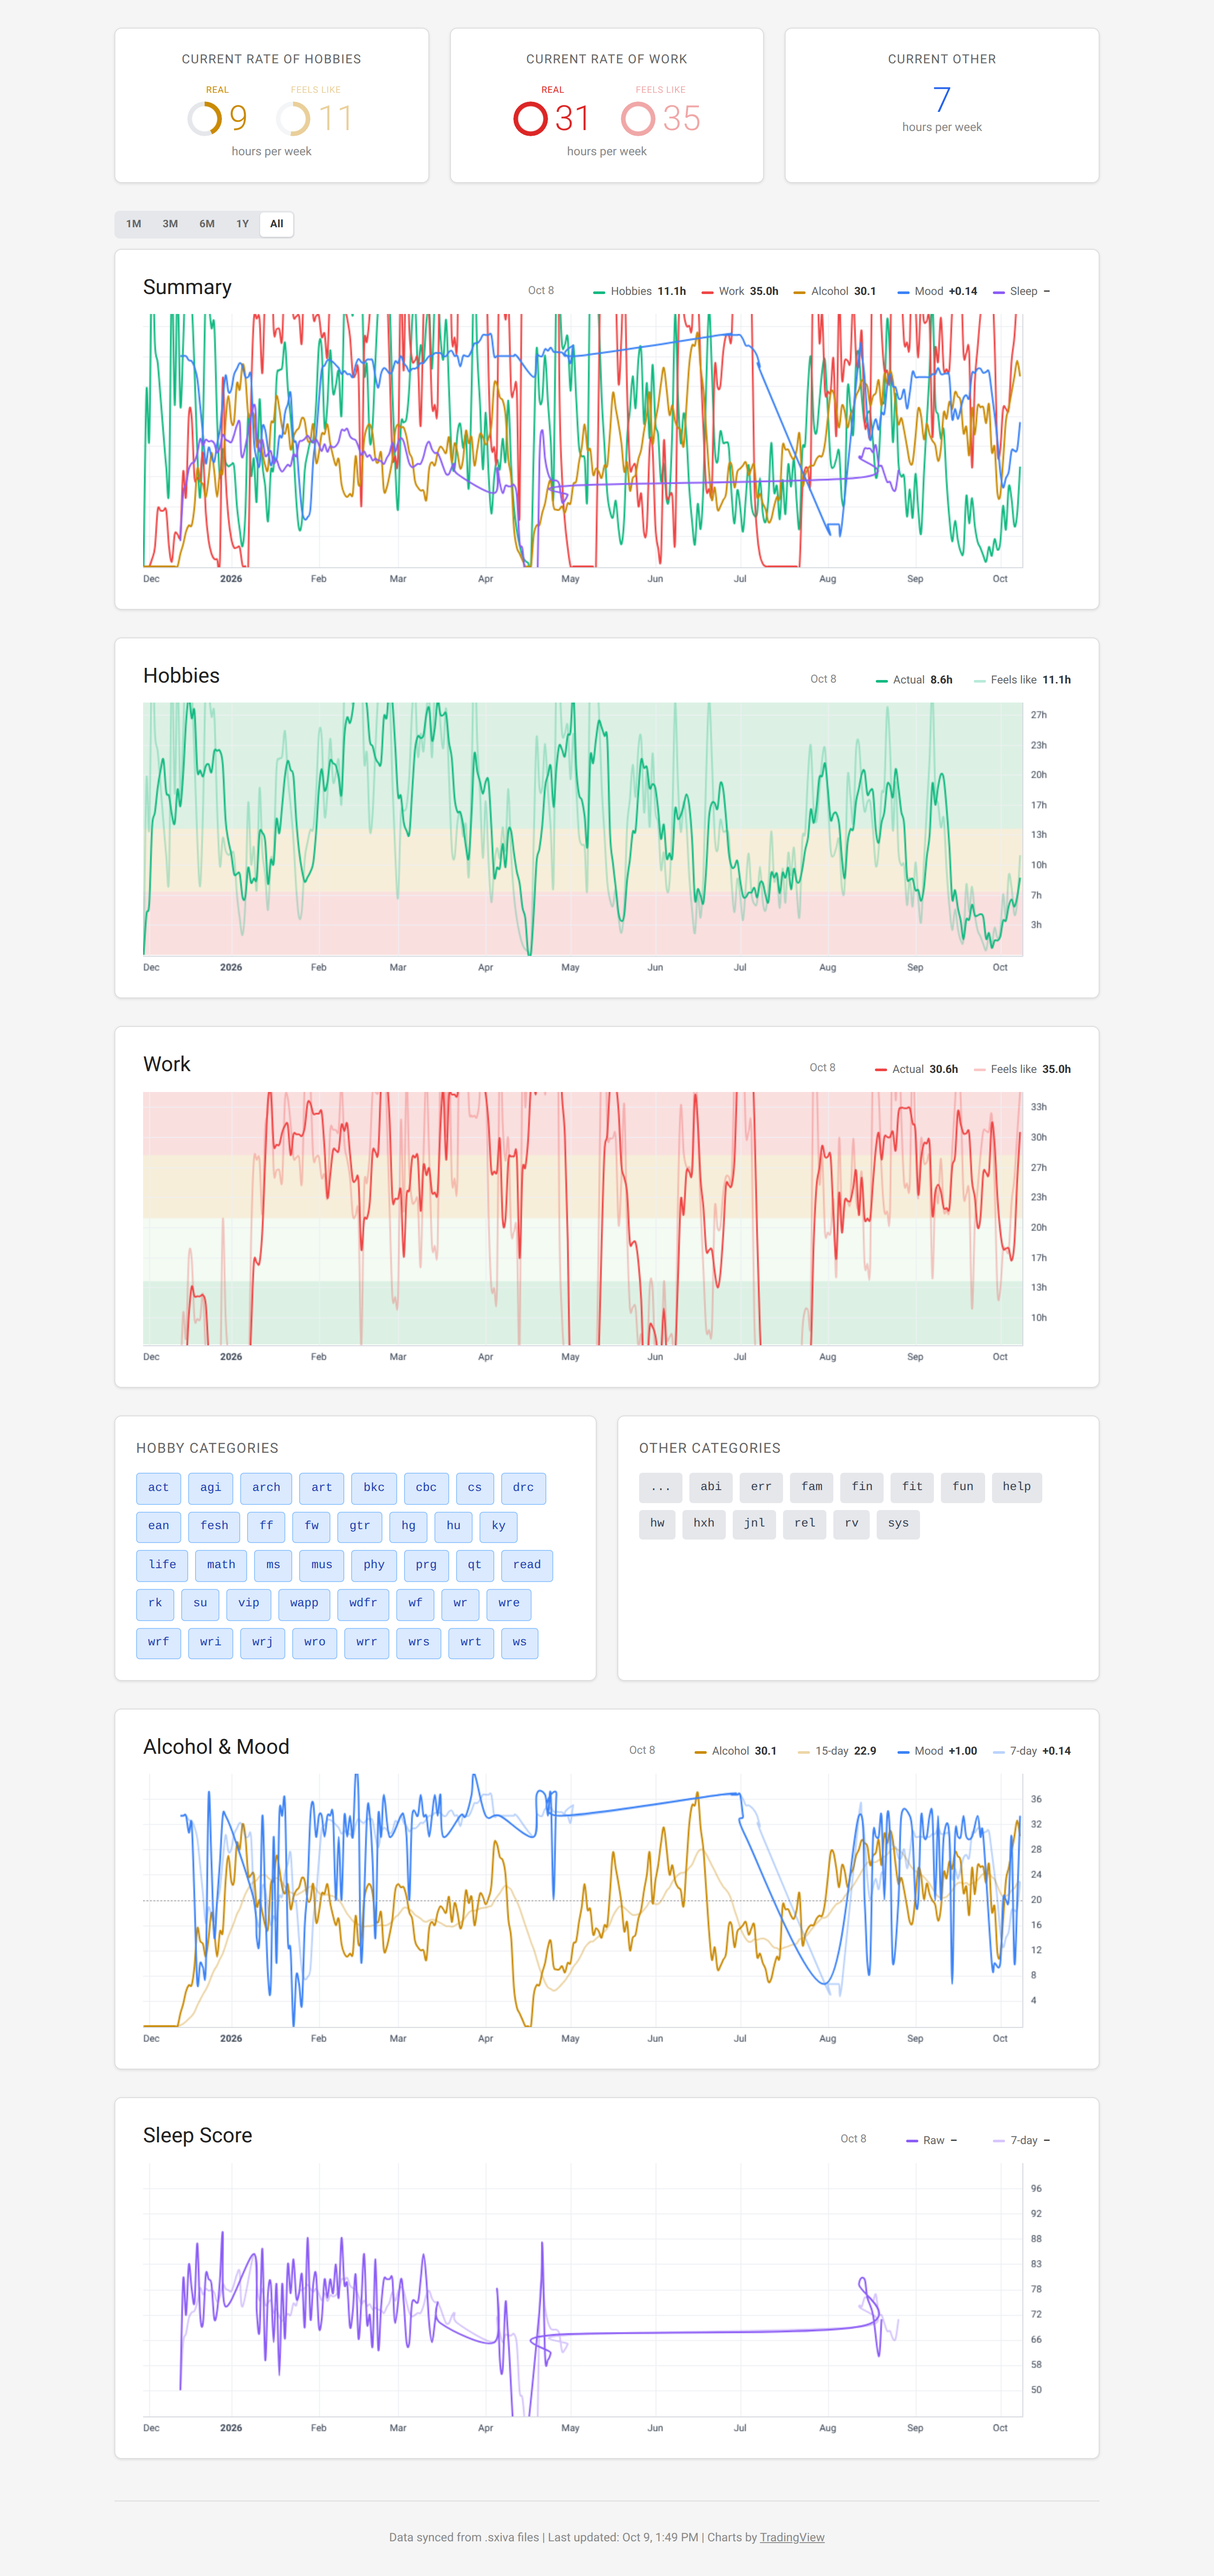
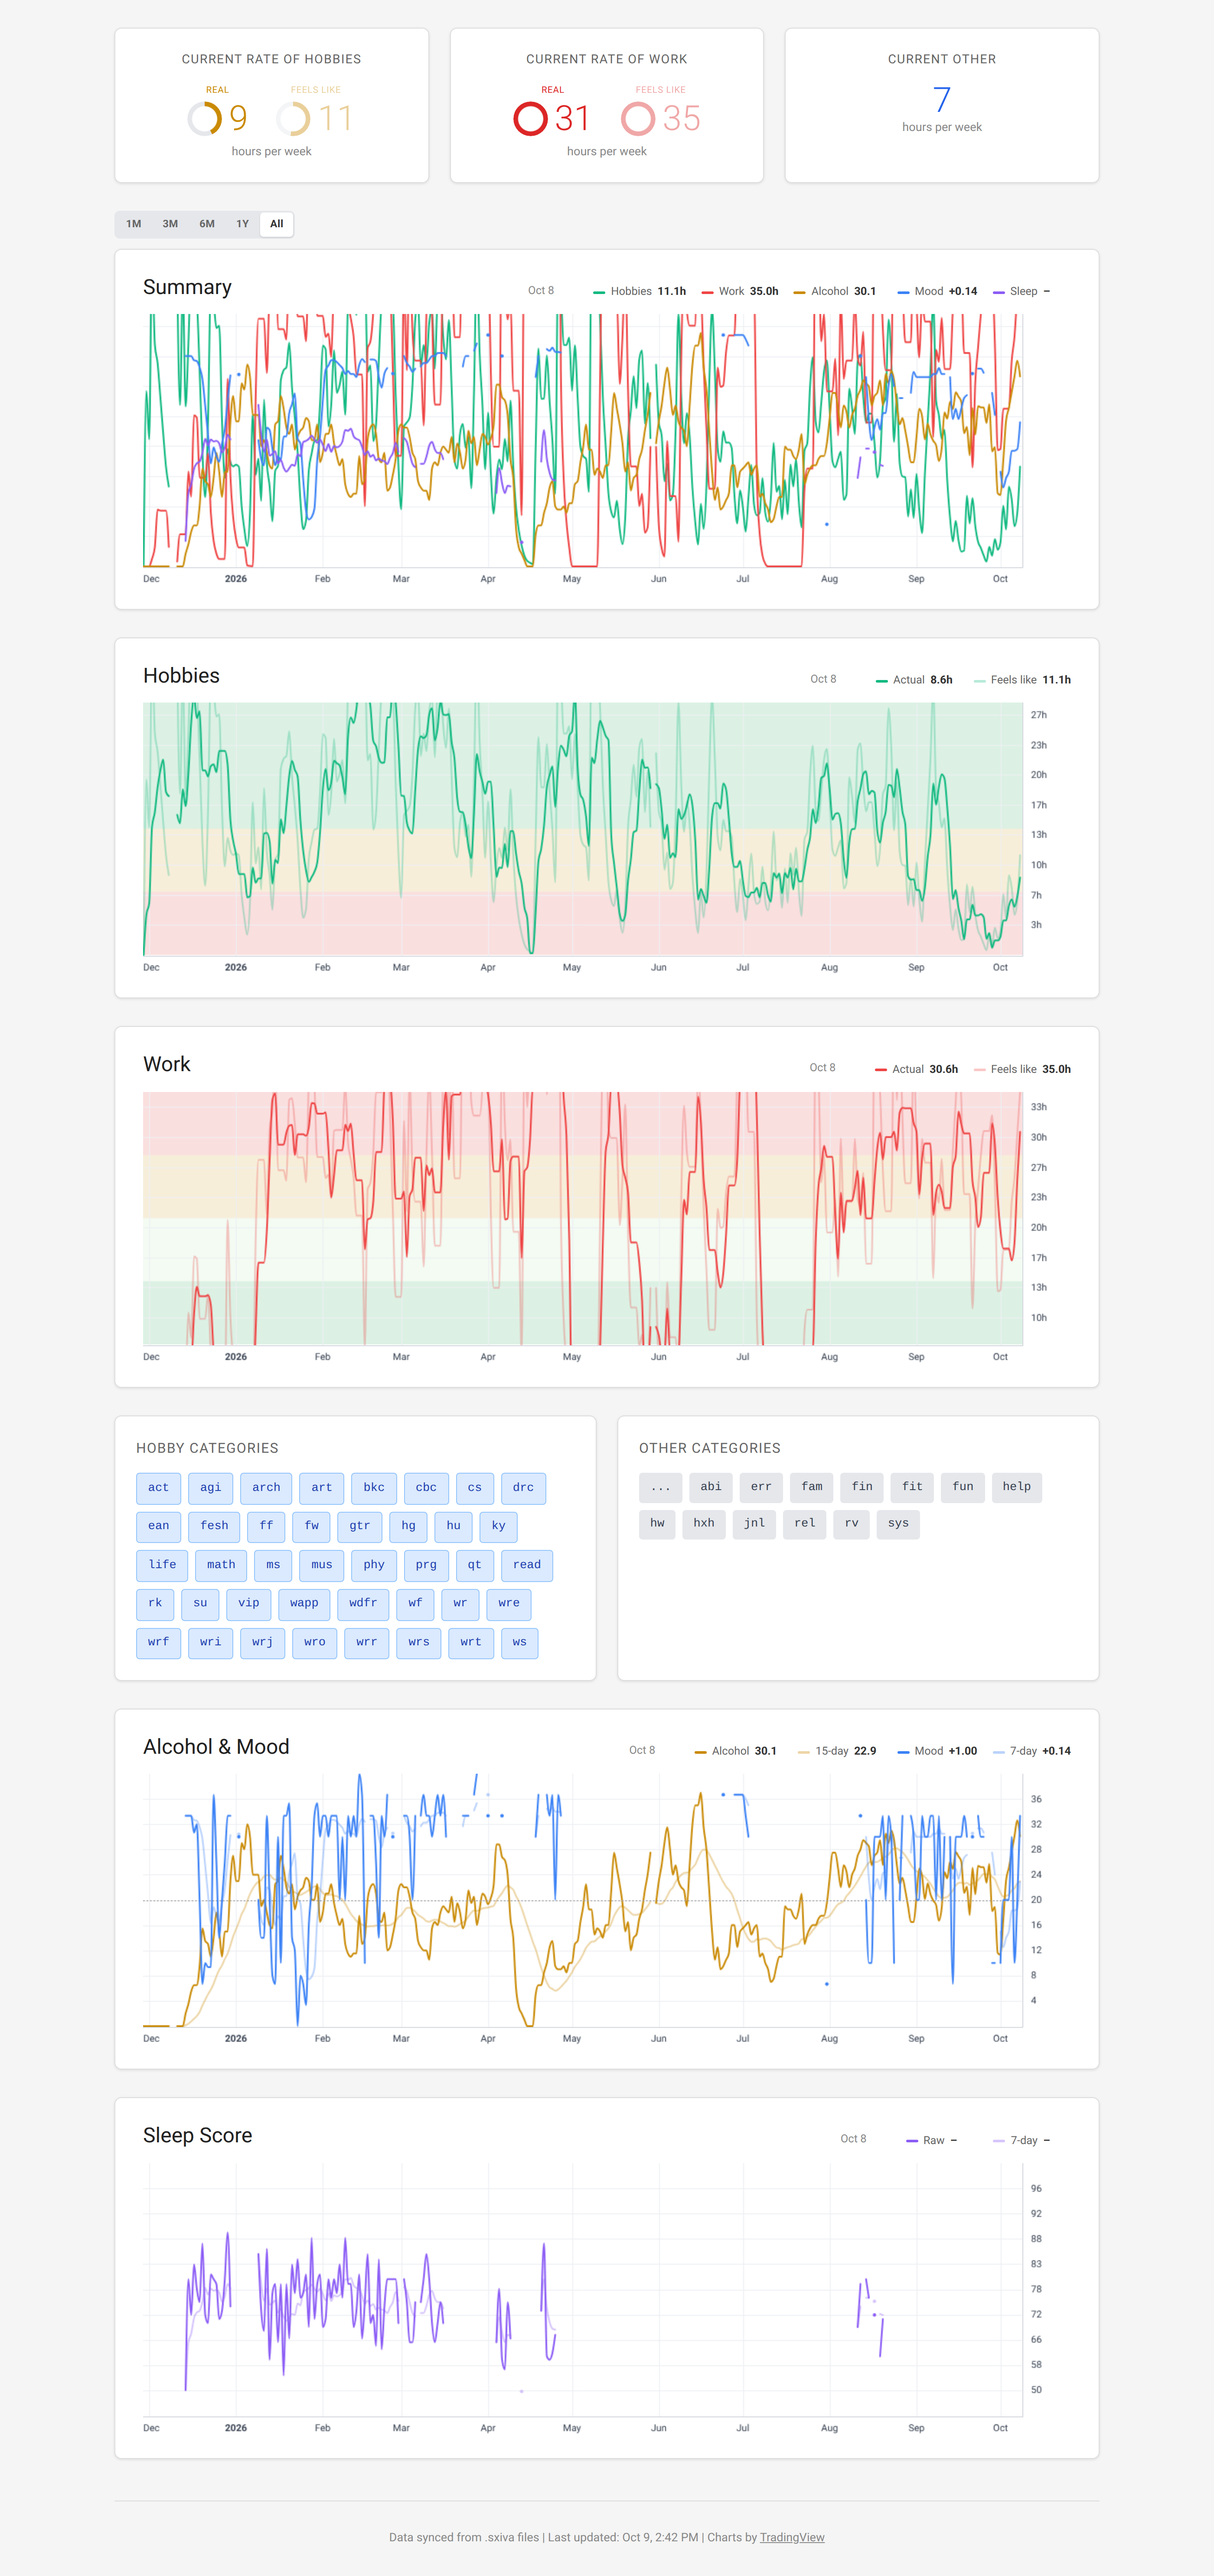
fix(status/new): monotone curves (no backwards-in-time loops) + gaps wherever a day is absent
- SmoothLinePrimitive strokes a Fritsch–Carlson monotone cubic through each
  series (series line hidden; data/markers/scale stay on the series). The
  library's Curved type is a non-monotone Bézier and looped on dense data.
- Contiguous calendar: days with no row become whitespace; 7-day averages
  are masked where the raw value is null (the API carries them forward).

diff --git a/foundry/website/html/status/new/app.js b/foundry/website/html/status/new/app.js
@@ -203,6 +203,112 @@ class ZonesPrimitive {
 }
 
 // ---------------------------------------------------------------------------
+// Smooth line: a series primitive that strokes a monotone cubic curve
+// (Fritsch–Carlson, as d3's curveMonotoneX / Chart.js "monotone") through the
+// series' points. The library's own Curved type is a Bézier with no
+// monotonicity guarantee, so dense data loops backwards in time; this one
+// is monotone in x by construction and never overshoots the data in y.
+// Runs break at absent days; an isolated point is drawn as a dot.
+
+class SmoothLinePrimitive {
+    constructor(color) {
+        this._color = color;
+        this._points = []; // calendar order: { index, value } or null (absent)
+        this._runs = [];   // pixel runs: [[{x, y}, ...], ...]
+        const self = this;
+        this._views = [{
+            zOrder: () => 'normal',
+            renderer: () => ({
+                draw: target => target.useMediaCoordinateSpace(({ context: ctx }) => self._draw(ctx))
+            })
+        }];
+    }
+
+    setPoints(points) {
+        this._points = points;
+    }
+
+    attached({ chart, series }) {
+        this._chart = chart;
+        this._series = series;
+    }
+
+    detached() {
+        this._chart = null;
+        this._series = null;
+    }
+
+    updateAllViews() {
+        if (!this._chart || !this._series) return;
+        const timeScale = this._chart.timeScale();
+        const runs = [];
+        let run = [];
+        for (const p of this._points) {
+            const x = p && timeScale.logicalToCoordinate(p.index);
+            const y = p && this._series.priceToCoordinate(p.value);
+            if (!p || x === null || y === null) {
+                if (run.length) runs.push(run);
+                run = [];
+                continue;
+            }
+            run.push({ x, y });
+        }
+        if (run.length) runs.push(run);
+        this._runs = runs;
+    }
+
+    paneViews() {
+        return this._views;
+    }
+
+    _draw(ctx) {
+        ctx.save();
+        ctx.strokeStyle = this._color;
+        ctx.fillStyle = this._color;
+        ctx.lineWidth = 2;
+        ctx.lineJoin = 'round';
+        ctx.lineCap = 'round';
+        for (const run of this._runs) {
+            if (run.length === 1) {
+                ctx.beginPath();
+                ctx.arc(run[0].x, run[0].y, 2, 0, Math.PI * 2);
+                ctx.fill();
+                continue;
+            }
+            const m = monotoneTangents(run);
+            ctx.beginPath();
+            ctx.moveTo(run[0].x, run[0].y);
+            for (let i = 0; i < run.length - 1; i++) {
+                const a = run[i], b = run[i + 1], dx = (b.x - a.x) / 3;
+                ctx.bezierCurveTo(a.x + dx, a.y + dx * m[i], b.x - dx, b.y - dx * m[i + 1], b.x, b.y);
+            }
+            ctx.stroke();
+        }
+        ctx.restore();
+    }
+}
+
+// Tangent (dy/dx) at each point of a run, Fritsch–Carlson style: zero at local
+// extrema, otherwise limited by the neighbouring secants so the curve never
+// overshoots; one-sided at the ends
+function monotoneTangents(pts) {
+    const n = pts.length;
+    const m = new Array(n);
+    const sign = v => (v > 0) - (v < 0);
+    const secant = i => (pts[i + 1].y - pts[i].y) / ((pts[i + 1].x - pts[i].x) || 1);
+    for (let i = 1; i < n - 1; i++) {
+        const h0 = pts[i].x - pts[i - 1].x, h1 = pts[i + 1].x - pts[i].x;
+        const s0 = secant(i - 1), s1 = secant(i);
+        const p = (s0 * h1 + s1 * h0) / (h0 + h1);
+        m[i] = (sign(s0) + sign(s1)) * Math.min(Math.abs(s0), Math.abs(s1), 0.5 * Math.abs(p)) || 0;
+    }
+    const end = (i, j, t) => (3 * secant(Math.min(i, j)) - t) / 2;
+    m[0] = n > 2 ? end(0, 1, m[1]) : secant(0);
+    m[n - 1] = n > 2 ? end(n - 2, n - 1, m[n - 2]) : secant(n - 2);
+    return m;
+}
+
+// ---------------------------------------------------------------------------
 // Charts
 
 function createChart(el) {
@@ -261,7 +367,9 @@ function addLine(chart, item) {
     return chart.addSeries(LWC.LineSeries, {
         color,
         lineWidth: 2,
-        lineType: LWC.LineType.Curved,
+        // The line itself is drawn by SmoothLinePrimitive (monotone curve);
+        // the series still owns the data: crosshair markers, scale, hover
+        lineVisible: false,
         priceScaleId: scaleId,
         priceLineVisible: false,
         lastValueVisible: false,
@@ -297,6 +405,8 @@ function buildCard(id, legendId, items, { zones = null } = {}) {
 
     for (const item of items) {
         item.series = addLine(chart, item);
+        item.curve = new SmoothLinePrimitive(item.color);
+        item.series.attachPrimitive(item.curve);
         item.lookup = new Map(); // date → legend string
 
         const el = document.createElement('span');
@@ -342,8 +452,8 @@ function buildCharts() {
         { name: 'Hobbies', color: COLORS.HOBBY, scaleId: 'right', range: SCALES.hobby, axisFormat: fmt.none, key: 'hobby_weighted', format: fmt.hours },
         { name: 'Work', color: COLORS.WORK, scaleId: 'right', range: SCALES.hobby, axisFormat: fmt.none, key: 'work_weighted', format: fmt.hours, transform: v => v * 2 },
         { name: 'Alcohol', color: COLORS.ALCOHOL, scaleId: 'alcohol', range: [0, 10], axisFormat: fmt.none, key: 'alc_7day_sum', format: fmt.alcohol },
-        { name: 'Mood', color: COLORS.MOOD, scaleId: 'mood', range: SCALES.mood, axisFormat: fmt.none, key: 'dep_7day_avg', format: fmt.mood, transform: transformMood },
-        { name: 'Sleep', color: COLORS.SLEEP, scaleId: 'sleep', range: SCALES.sleep, axisFormat: fmt.none, key: 'sleep_7day_avg', format: fmt.sleep, transform: transformSleep }
+        { name: 'Mood', color: COLORS.MOOD, scaleId: 'mood', range: SCALES.mood, axisFormat: fmt.none, key: 'dep_7day_avg', requires: 'dep_raw', format: fmt.mood, transform: transformMood },
+        { name: 'Sleep', color: COLORS.SLEEP, scaleId: 'sleep', range: SCALES.sleep, axisFormat: fmt.none, key: 'sleep_7day_avg', requires: 'sleep_raw', format: fmt.sleep, transform: transformSleep }
     ]);
 
     buildCard('hobbyChart', 'hobbyLegend', [
@@ -360,7 +470,7 @@ function buildCharts() {
         { name: 'Alcohol', color: COLORS.ALCOHOL, scaleId: 'right', range: [0, 10], axisFormat: fmt.alcoholAxis, key: 'alc_7day_sum', format: fmt.alcohol },
         { name: '15-day', color: COLORS.ALCOHOL_LIGHT, scaleId: 'right', range: [0, 10], axisFormat: fmt.alcoholAxis, key: 'alc_15day_avg', format: fmt.alcohol, light: true },
         { name: 'Mood', color: COLORS.MOOD, scaleId: 'mood', range: SCALES.mood, axisFormat: fmt.none, key: 'dep_raw', format: fmt.mood, transform: transformMood },
-        { name: '7-day', color: COLORS.MOOD_LIGHT, scaleId: 'mood', range: SCALES.mood, axisFormat: fmt.none, key: 'dep_7day_avg', format: fmt.mood, transform: transformMood, light: true }
+        { name: '7-day', color: COLORS.MOOD_LIGHT, scaleId: 'mood', range: SCALES.mood, axisFormat: fmt.none, key: 'dep_7day_avg', requires: 'dep_raw', format: fmt.mood, transform: transformMood, light: true }
     ]);
     // Mood zero, dashed
     alcohol.items[2].series.createPriceLine({
@@ -369,7 +479,7 @@ function buildCharts() {
 
     buildCard('sleepChart', 'sleepLegend', [
         { name: 'Raw', color: COLORS.SLEEP, scaleId: 'right', range: SCALES.sleep, axisFormat: fmt.sleepAxis, key: 'sleep_raw', format: fmt.sleep, transform: transformSleep },
-        { name: '7-day', color: COLORS.SLEEP_LIGHT, scaleId: 'right', range: SCALES.sleep, axisFormat: fmt.sleepAxis, key: 'sleep_7day_avg', format: fmt.sleep, transform: transformSleep, light: true }
+        { name: '7-day', color: COLORS.SLEEP_LIGHT, scaleId: 'right', range: SCALES.sleep, axisFormat: fmt.sleepAxis, key: 'sleep_7day_avg', requires: 'sleep_raw', format: fmt.sleep, transform: transformSleep, light: true }
     ]);
 
     linkCharts();
@@ -388,27 +498,44 @@ function alcoholMaxOf(data) {
     return Math.max(10, Math.ceil(max / 10) * 10);
 }
 
+// Every calendar day from the first to the last row across the datasets
+function calendarOf(data) {
+    const all = [data.category, data.alcohol, data.sleep].flatMap(d => d.data.map(r => r.date)).sort();
+    const out = [];
+    for (let d = new Date(all[0] + 'T00:00:00Z'), end = new Date(all[all.length - 1] + 'T00:00:00Z'); d <= end; d.setUTCDate(d.getUTCDate() + 1)) {
+        out.push(d.toISOString().slice(0, 10));
+    }
+    return out;
+}
+
+// A day with no row, a null value, or (for a derived series) a null
+// underlying raw value is ABSENT: whitespace, so no line is drawn through it.
+// The API carries 7-day averages forward over days with no entry, which
+// would otherwise draw a line across the gap.
 function setData(data) {
-    dates = data.category.data.map(d => d.date);
+    dates = calendarOf(data);
     const alcoholRange = [0, alcoholMaxOf(data)];
     const spine = dates.map(d => ({ time: d, value: 0 }));
     for (const card of cards) {
         card.spine.setData(spine);
         for (const item of card.items) {
             if (item.key.startsWith('alc')) item.range = alcoholRange;
-            const rows = rowsFor(item.key, data);
+            const byDate = new Map(rowsFor(item.key, data).map(r => [r.date, r]));
             const plotted = v => (item.transform ? item.transform(v) : v);
             // Hours readouts follow what's plotted (work is ×2); mood/sleep
             // readouts show the raw value, not the axis-shaping transform
             const shown = /^(hobby|work)/.test(item.key) ? plotted : v => v;
             item.lookup.clear();
-            const points = rows.map(r => {
-                const v = r[item.key];
-                if (v === null || v === undefined) return { time: r.date }; // whitespace = gap
-                item.lookup.set(r.date, item.format(shown(v)));
-                return { time: r.date, value: plotted(v) };
+            const points = dates.map(date => {
+                const r = byDate.get(date);
+                const v = r ? r[item.key] : null;
+                const absent = v === null || v === undefined || (item.requires && r[item.requires] === null);
+                if (absent) return { time: date };
+                item.lookup.set(date, item.format(shown(v)));
+                return { time: date, value: plotted(v) };
             });
             item.series.setData(points);
+            item.curve.setPoints(points.map((p, index) => (p.value === undefined ? null : { index, value: p.value })));
         }
     }
     setHover(null);
